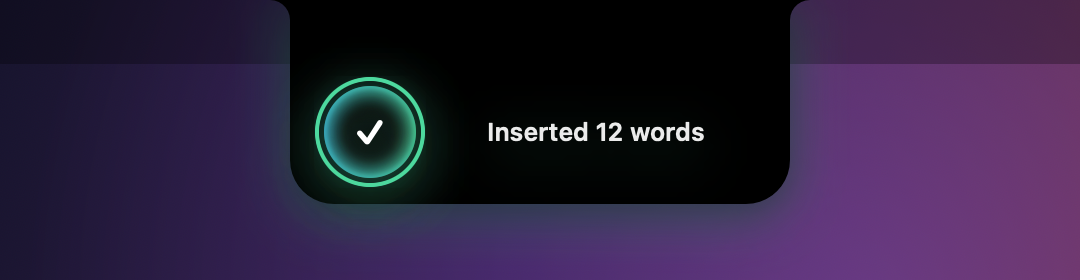
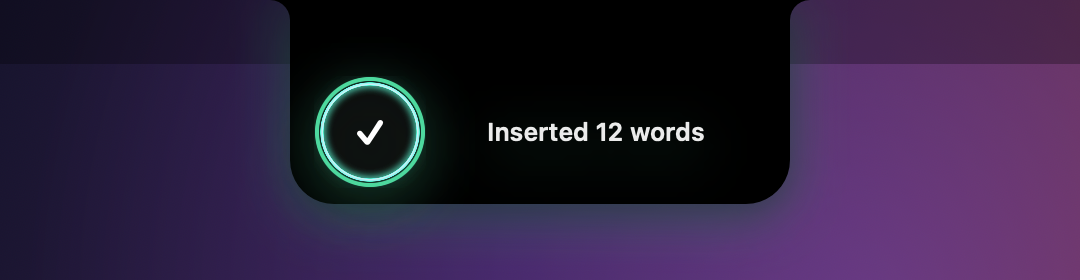
New three-blob orb with a jolt at speech onset; demo GIF and refreshed screenshots

Changed region(s): [[0.275, 0.2857, 0.3972, 0.6571]]

diff --git a/Sources/Utter/Snapshots.swift b/Sources/Utter/Snapshots.swift
@@ -125,7 +125,7 @@ enum Snapshots {
 
         // The island as it looks in use: hanging from the menu bar over a desktop,
         // for the README and the portfolio.
-        func onDesktop(_ name: String) {
+        func onDesktop(_ name: String, in folder: URL? = nil) {
             render(ZStack(alignment: .top) {
                 LinearGradient(colors: [Color(red: 0.09, green: 0.08, blue: 0.18),
                                         Color(red: 0.22, green: 0.12, blue: 0.30),
@@ -137,7 +137,17 @@ enum Snapshots {
                 NotchIslandView(geometry: notch).environmentObject(state)
             }
             .frame(width: 540, height: 140)
-            .environment(\.colorScheme, .dark), to: dir, "desktop-\(name)")
+            .environment(\.colorScheme, .dark), to: folder ?? dir, folder == nil ? "desktop-\(name)" : name)
+        }
+        // A blob motion that has been running for a few seconds at a steady
+        // level, so stills show it settled rather than mid-jolt.
+        func settledMotion(level: Double, calm: Bool) -> BlobMotion {
+            let motion = BlobMotion()
+            let start = Date()
+            for frame in 0...150 {
+                motion.step(to: start.addingTimeInterval(Double(frame) / 30), target: level, calm: calm)
+            }
+            return motion
         }
         state.phase = .idle
         state.barHovering = true
@@ -147,18 +157,64 @@ enum Snapshots {
         state.livePreview = false
         state.phase = .listening(.dictation)
         state.level = 0.7
+        SnapshotClock.motion = settledMotion(level: 0.7, calm: false)
         onDesktop("listening")
+        SnapshotClock.motion = settledMotion(level: 0, calm: true)
         state.phase = .processing(.dictation)
         state.step = "Polishing…"
         onDesktop("polishing")
         state.phase = .done("Inserted 12 words")
         state.phaseSince = Date().addingTimeInterval(-1)
         onDesktop("done")
+        SnapshotClock.motion = nil
         state.sessionMode = .command
         state.livePreview = true
         state.confirmPurpose = "Deploy the website"
         state.phase = .confirm("cd ~/code/website && ./deploy.sh")
         onDesktop("confirm")
+
+        // A dictation as numbered frames at 30 fps (frames/frame-000.png …):
+        // quiet, talking (with the jolt at each start of speech), polishing,
+        // done. scripts/make-demo-video.sh turns them into the README GIF and
+        // the portfolio video.
+        let frames = dir.appendingPathComponent("frames", isDirectory: true)
+        try? FileManager.default.createDirectory(at: frames, withIntermediateDirectories: true)
+        let motion = BlobMotion()
+        SnapshotClock.motion = motion
+        let start = Date()
+        var heldLevel = 0.0
+        state.sessionMode = .dictation
+        state.livePreview = false
+        for frame in 0..<240 {
+            let t = Double(frame) / 30
+            let now = start.addingTimeInterval(t)
+            SnapshotClock.date = now
+            // The mic level updates 20 times a second in the app; hold it between updates.
+            if frame % 3 == 0 {
+                let talking = (0.6..<3.6).contains(t) || (4.2..<5.4).contains(t)
+                let syllable = max(0, sin(t * 9 + sin(t * 2.3) * 2))
+                heldLevel = talking
+                    ? min(1, 0.25 + 0.65 * syllable * (0.6 + 0.4 * sin(t * 1.7)) + 0.1 * Double.random(in: 0...1))
+                    : 0.02
+            }
+            if t < 5.4 {
+                if case .listening = state.phase {} else { state.phase = .listening(.dictation) }
+                state.level = Float(heldLevel)
+            } else if t < 6.4 {
+                if case .processing = state.phase {} else {
+                    state.phase = .processing(.dictation)
+                    state.step = "Polishing…"
+                    state.level = 0
+                }
+            } else {
+                if case .done = state.phase {} else { state.phase = .done("Inserted 12 words") }
+                state.phaseSince = start.addingTimeInterval(6.4)
+            }
+            motion.step(to: now, target: t < 5.4 ? heldLevel : 0, calm: t >= 5.4)
+            onDesktop(String(format: "frame-%03d", frame), in: frames)
+        }
+        SnapshotClock.motion = nil
+        SnapshotClock.date = nil
 
         // The island at the notch widths of different display scalings:
         // "Larger Text" (≈150 pt), default (185 pt) and "More Space" (≈230 pt).

diff --git a/Sources/Utter/HUD/LiquidOrb.swift b/Sources/Utter/HUD/LiquidOrb.swift
@@ -75,6 +75,14 @@ struct BlobShape: Shape {
     }
 }
 
+/// Developer snapshots only (`--snapshot`): when set, animated views draw this
+/// moment instead of the real time, and every orb draws `motion` without
+/// advancing it, so an animation can be rendered frame by frame.
+enum SnapshotClock {
+    nonisolated(unsafe) static var date: Date?
+    nonisolated(unsafe) static var motion: BlobMotion?
+}
+
 /// Frame-to-frame motion for the three blobs. Phases are integrated over time
 /// (so changing speed never makes a shape jump) and the mic level is eased.
 ///
@@ -181,10 +189,12 @@ struct AIOrb: View {
 
     var body: some View {
         TimelineView(.animation) { timeline in
-            let now = timeline.date
+            let now = SnapshotClock.date ?? timeline.date
             let age = now.timeIntervalSince(since)
             let settled = mood == .done || mood == .failed
-            let _ = motion.step(to: now, target: Double(level), calm: mood != .listening)
+            if SnapshotClock.motion == nil {
+                let _ = motion.step(to: now, target: Double(level), calm: mood != .listening)
+            }
             // Smoothstep from 1 to 0 over half a second when settling.
             let s = settled ? max(0, 1 - age / 0.5) : 1
             let settle = s * s * (3 - 2 * s)
@@ -220,6 +230,7 @@ struct AIOrb: View {
     }
 
     private func draw(_ ctx: inout GraphicsContext, in canvas: CGSize, settle: Double) {
+        let motion = SnapshotClock.motion ?? self.motion
         let lv = preview?.level ?? motion.level
         let energy = preview == nil ? motion.energy * settle : 0
         let jitter = motion.jitter

diff --git a/Sources/Utter/Theme.swift b/Sources/Utter/Theme.swift
@@ -184,7 +184,7 @@ struct Waveform: View {
 
     var body: some View {
         TimelineView(.animation) { timeline in
-            let t = timeline.date.timeIntervalSinceReferenceDate
+            let t = (SnapshotClock.date ?? timeline.date).timeIntervalSinceReferenceDate
             Canvas { context, size in
                 let barWidth: CGFloat = 2.6
                 let gap = (size.width - CGFloat(bars) * barWidth) / CGFloat(max(bars - 1, 1))

diff --git a/Sources/Utter/HUD/BarRows.swift b/Sources/Utter/HUD/BarRows.swift
@@ -187,7 +187,7 @@ private struct LoadingDots: View {
 
     var body: some View {
         TimelineView(.animation) { timeline in
-            let t = timeline.date.timeIntervalSinceReferenceDate
+            let t = (SnapshotClock.date ?? timeline.date).timeIntervalSinceReferenceDate
             HStack(spacing: 3.5) {
                 ForEach(0..<3, id: \.self) { i in
                     let wave = (sin(t * 6 - Double(i) * 0.9) + 1) / 2

diff --git a/README.md b/README.md
@@ -8,8 +8,7 @@
 Dictate polished text into any app, or tell your Mac what to do.</p>
 
 <p align="center">
-  <img src="docs/images/in-use-listening.png" width="420" alt="Listening: the notch opens into a glowing orb and waveform">
-  <img src="docs/images/in-use-done.png" width="420" alt="Done: a green check and Inserted 12 words">
+  <img src="docs/images/demo.gif" width="810" alt="A dictation in the notch: three glowing outlined blobs and a waveform move with the voice and jolt when speech starts, then Polishing, then a green check and Inserted 12 words">
 </p>
 
 ## What it does
@@ -23,7 +22,9 @@ Dictate polished text into any app, or tell your Mac what to do.</p>
 | | |
 |---|---|
 | <img src="docs/images/island-controls.png" width="380" alt="Notch controls"> | Rest the pointer under the camera to open the controls. |
+| <img src="docs/images/in-use-listening.png" width="380" alt="Listening"> | While you talk, the orb and waveform move with your voice. |
 | <img src="docs/images/in-use-polishing.png" width="380" alt="Polishing"> | After you release the key, Whisper transcribes and the text is polished. |
+| <img src="docs/images/in-use-done.png" width="380" alt="Done"> | The text is typed at your cursor. |
 | <img src="docs/images/in-use-confirm.png" width="380" alt="Confirm a command"> | Commands that run in Terminal wait for your approval. |
 
 ## More screenshots
@@ -36,8 +37,8 @@ Dictate polished text into any app, or tell your Mac what to do.</p>
 | <img src="docs/images/settings-history.png" width="380" alt="History"> | **History.** Everything dictated or asked, stored only on this Mac. |
 | <img src="docs/images/floating-pill.png" width="380" alt="Floating pill"> | **Floating pill.** Used automatically on Macs without a notch; drag it anywhere. |
 
-<p align="center"><img src="docs/images/orb-morph.png" width="760" alt="The orb at six moments, quiet (top) and speaking (bottom)"><br>
-<em>The orb's shape over time: quiet (top) and while speaking (bottom).</em></p>
+<p align="center"><img src="docs/images/orb-morph.png" width="760" alt="The orb at six moments, quiet (top) and speaking (bottom): three overlapping outlined blobs in amber, pink and blue"><br>
+<em>The orb is three blobs sharing one centre, each a different shape with its edge lit in its own colour. Quiet (top) and while speaking (bottom).</em></p>
 
 ## Controls
 

diff --git a/docs/DEVELOPMENT.md b/docs/DEVELOPMENT.md
@@ -44,7 +44,10 @@ XCTest and swift-testing need full Xcode (they depend on compiler plugins the Co
 ```bash
 swift build
 .build/debug/Utter --snapshot /tmp/utter-snaps     # render every screen and island state to PNGs
-                                                    # (sizes-*.png: the island at three notch widths)
+                                                    # (sizes-*.png: the island at three notch widths;
+                                                    # frames/: a dictation as 30 fps frames)
+./scripts/make-demo-video.sh /tmp/utter-snaps/frames docs/images
+                                                    # frames → docs/images/demo.gif (README) and demo.mp4
 CONFIG=debug ./scripts/build.sh
 .build/debug/Utter --probe-parakeet clip.wav        # download/load Parakeet, transcribe a 16 kHz mono WAV, time it
 open -n -W --stdout /tmp/probe.log build/Utter.app --args --probe-speech clip.aiff
